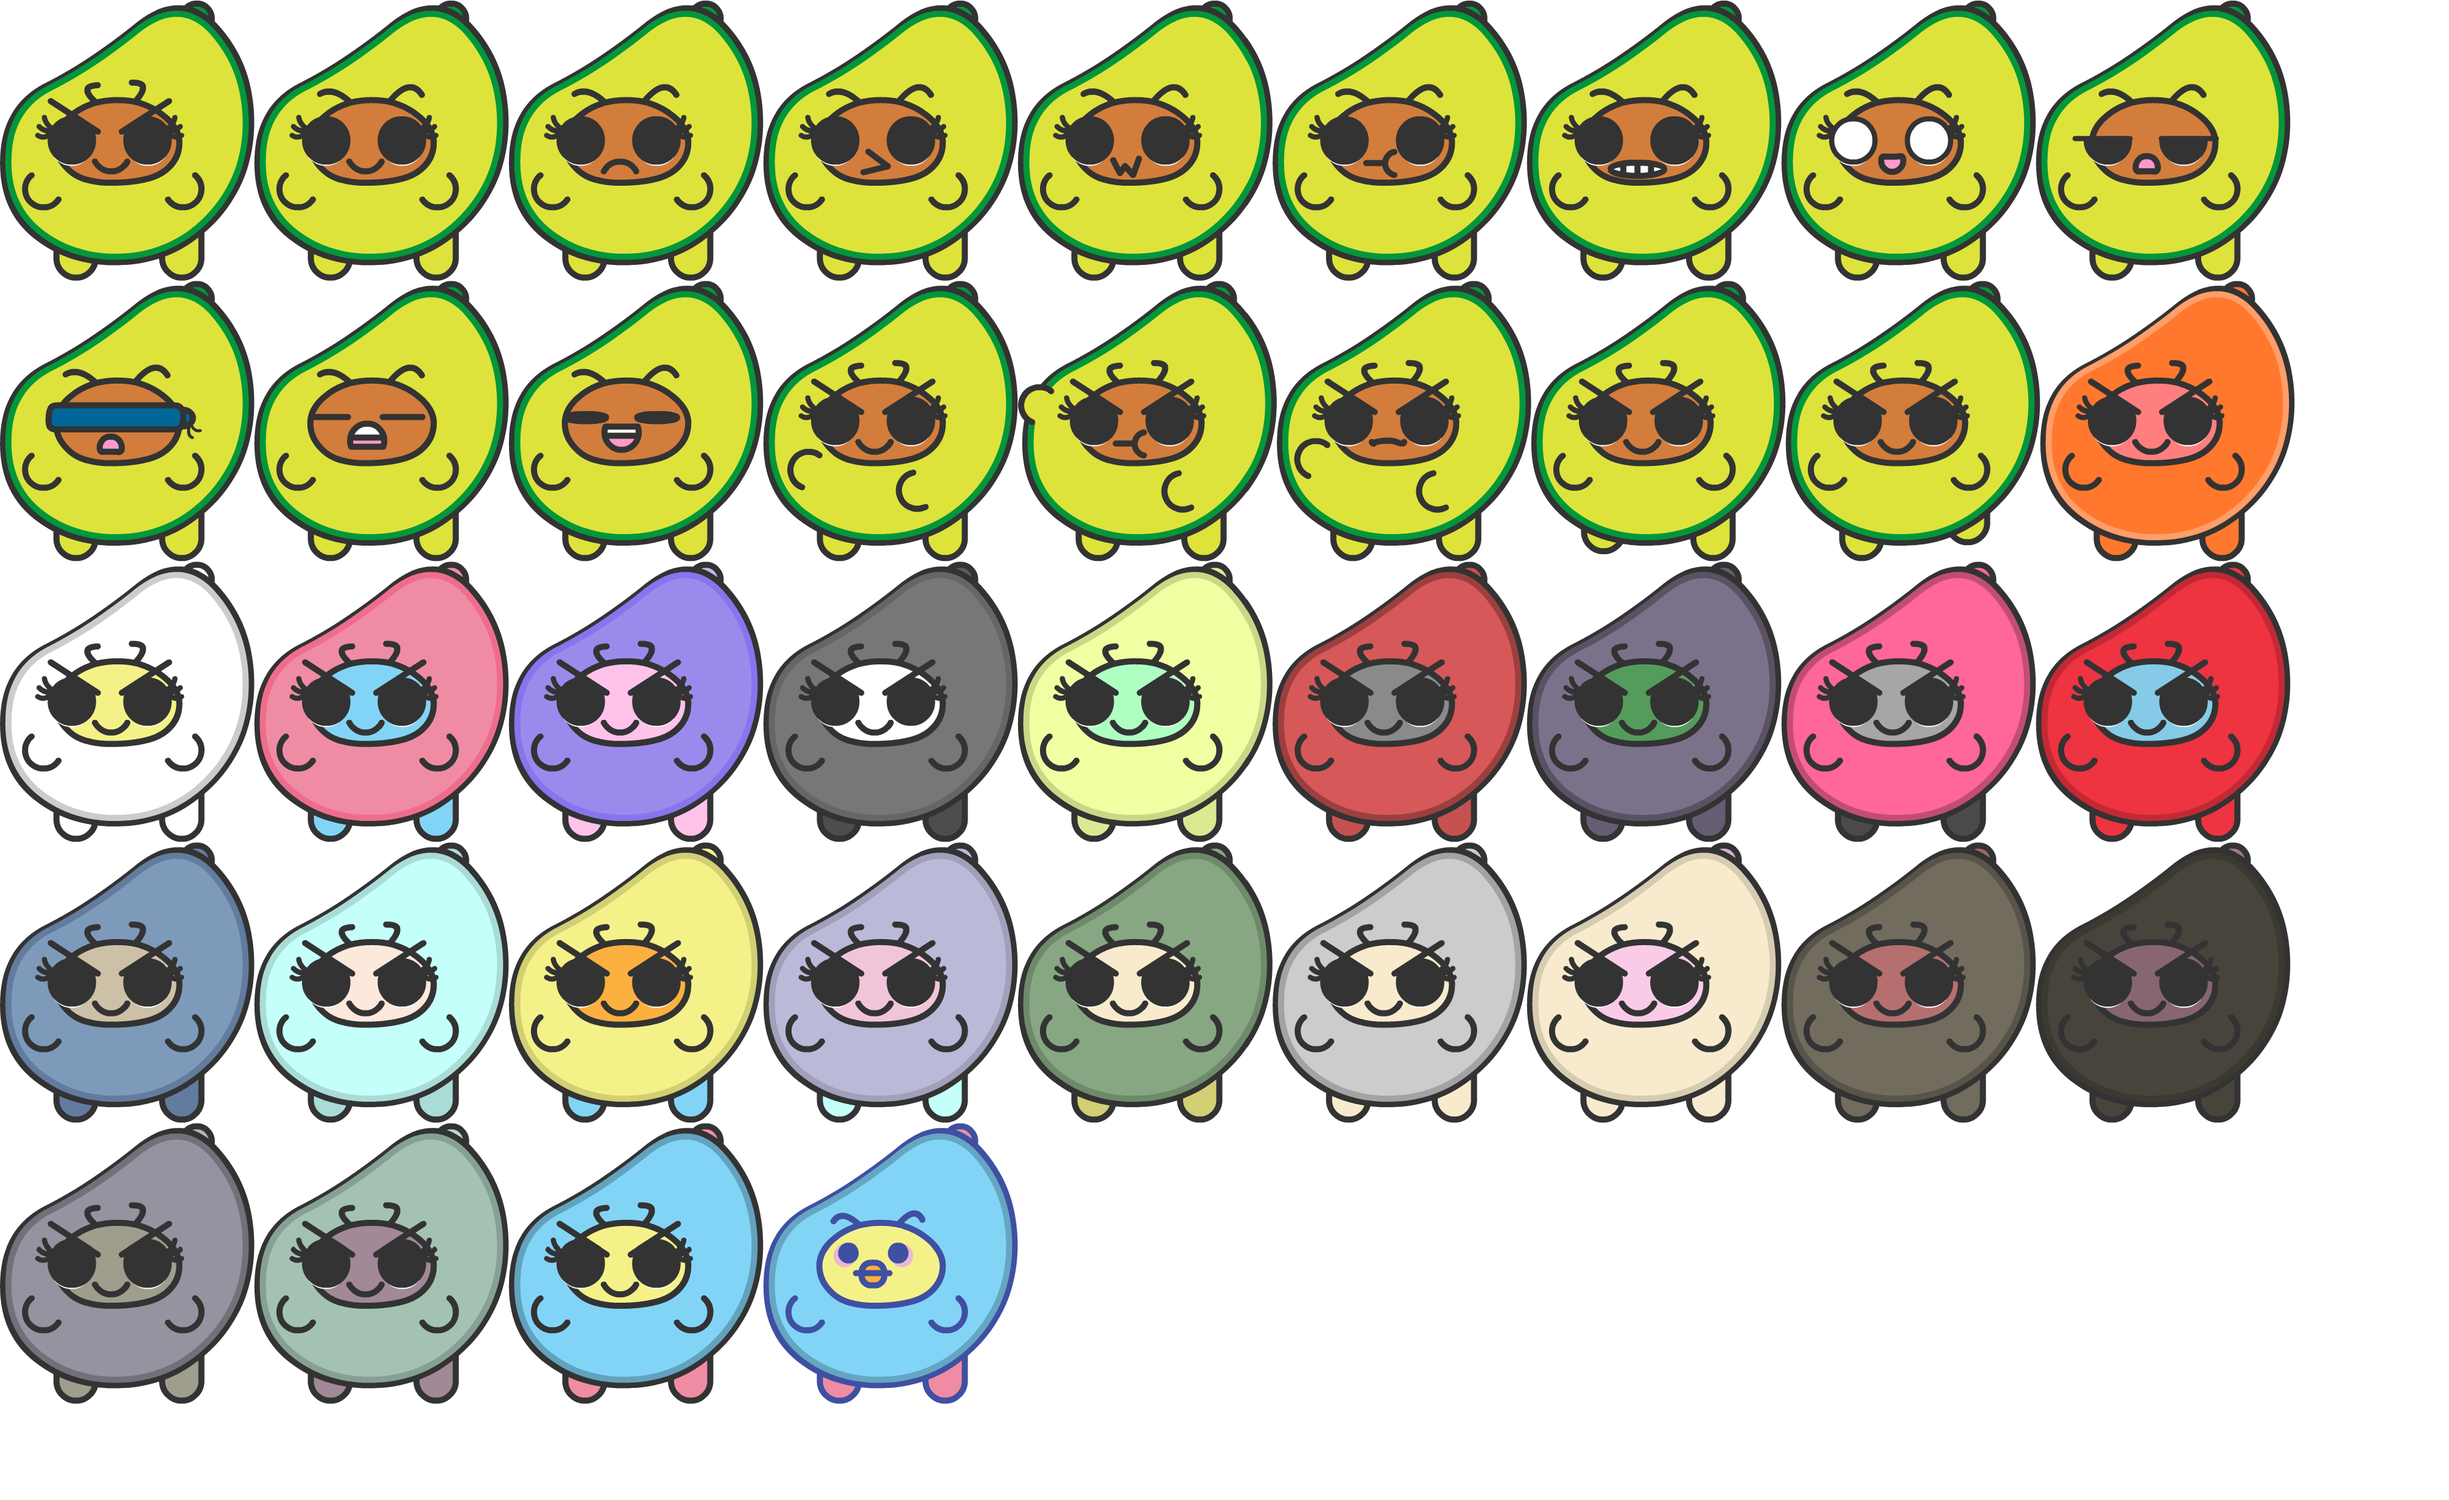
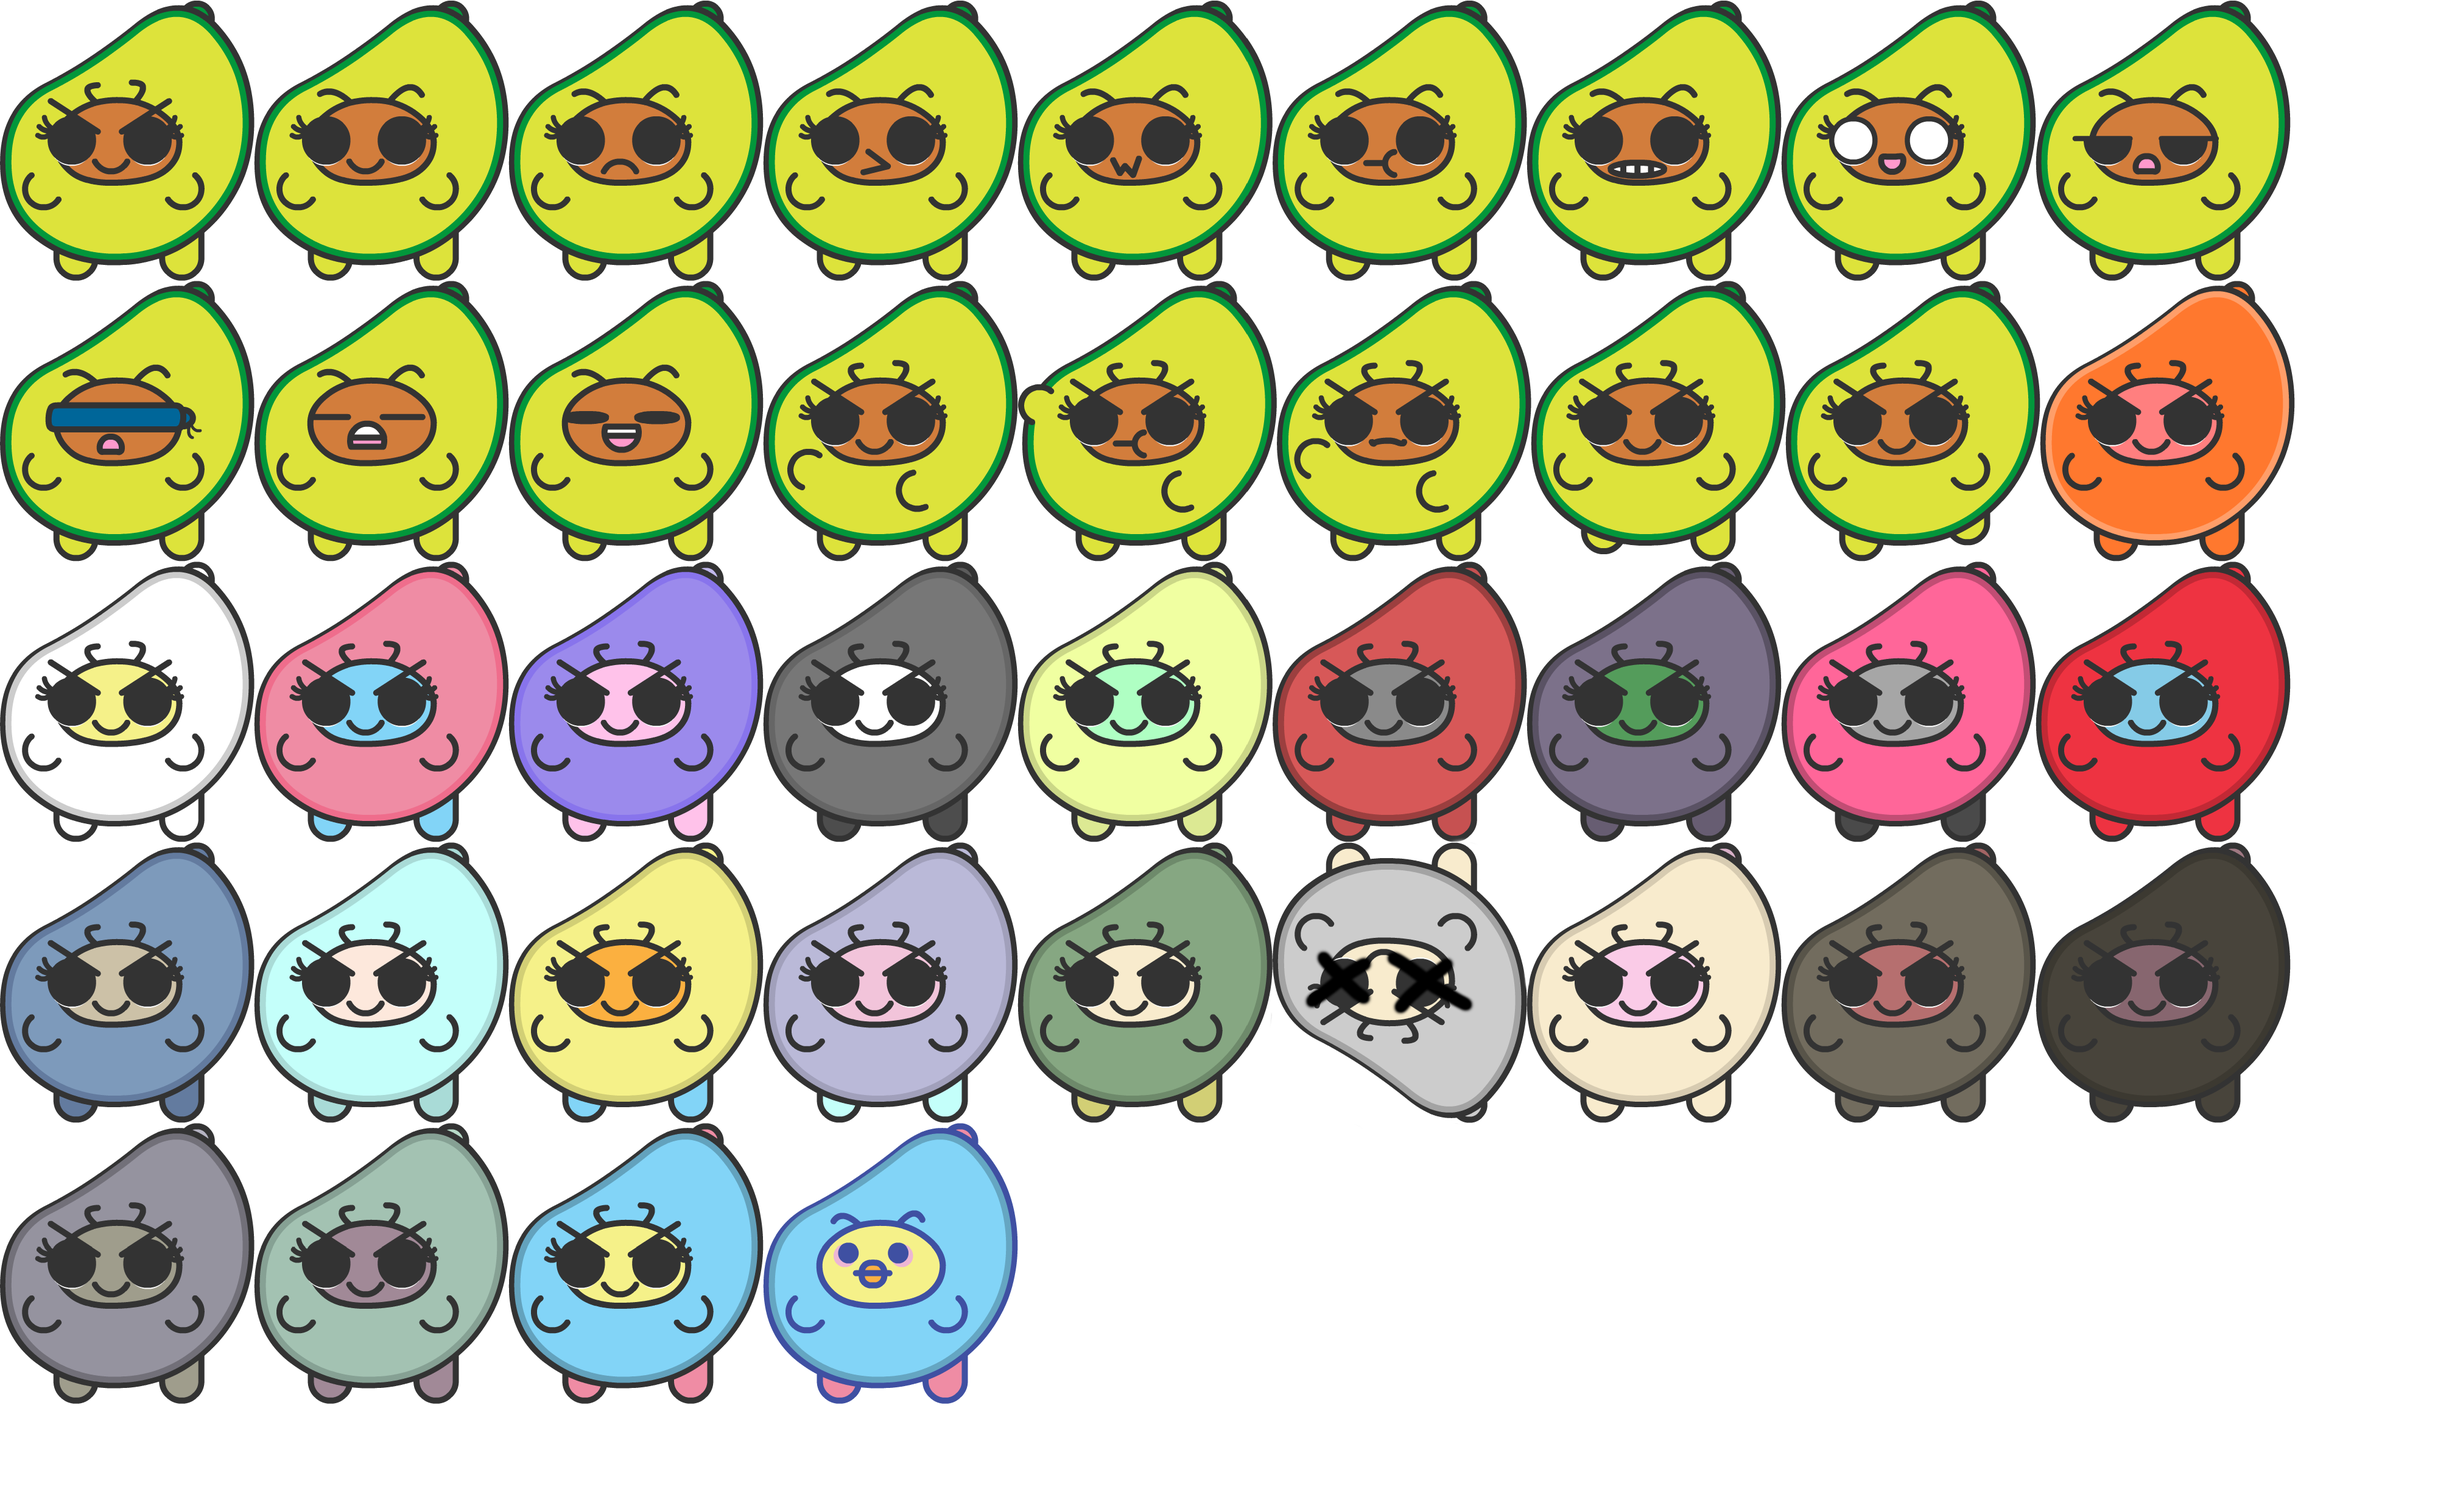
fix/add death activities for examples

Changed region(s): [[0.4973, 0.5554, 0.6216, 0.7406]]

diff --git a/src/scenes/info/index.js b/src/scenes/info/index.js
@@ -147,6 +147,7 @@ class PetStats extends Component {
   getDeadStats(deltaStats){
     return deltaStats.filter(ds => {
       if(ds.doesKill){
+        console.log(`${ds.id}, fullIsGood:${ds.fullIsGood}, cur:${ds.cur}, max:${ds.max}`)
         if(ds.fullIsGood && ds.cur === 0){
           return true;
         }else if(!ds.fullIsGood && ds.cur === ds.max){

diff --git a/src/util/pet-store.js b/src/util/pet-store.js
@@ -151,7 +151,7 @@ export const getDeltaStats = (statsObj, timestamp) =>{
     ...s,
     value: s.value,
     max: s.max,
-    current: clamp(s.value + (s.perSecond * timeDiff), 0, s.max)
+    current: Math.round(clamp(s.value + (s.perSecond * timeDiff), 0, s.max))
   }));
 }
 
